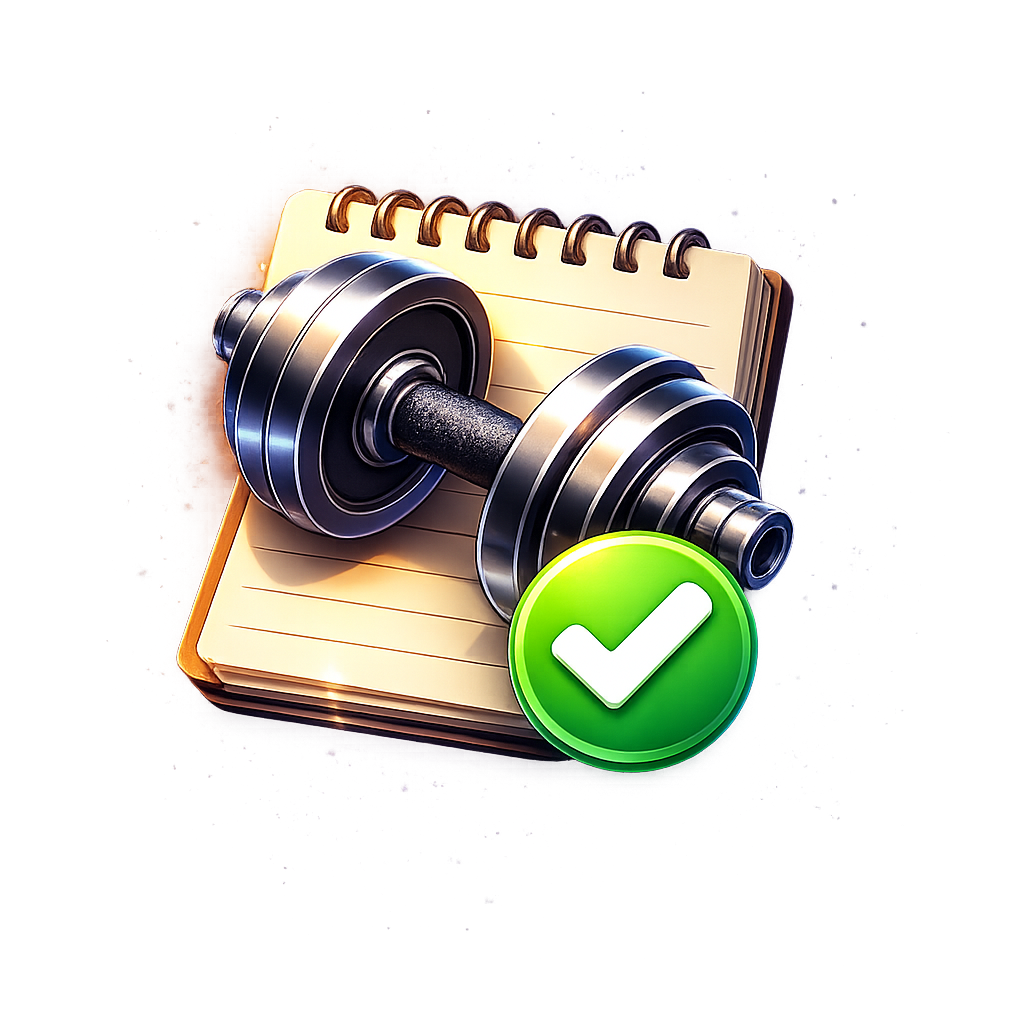
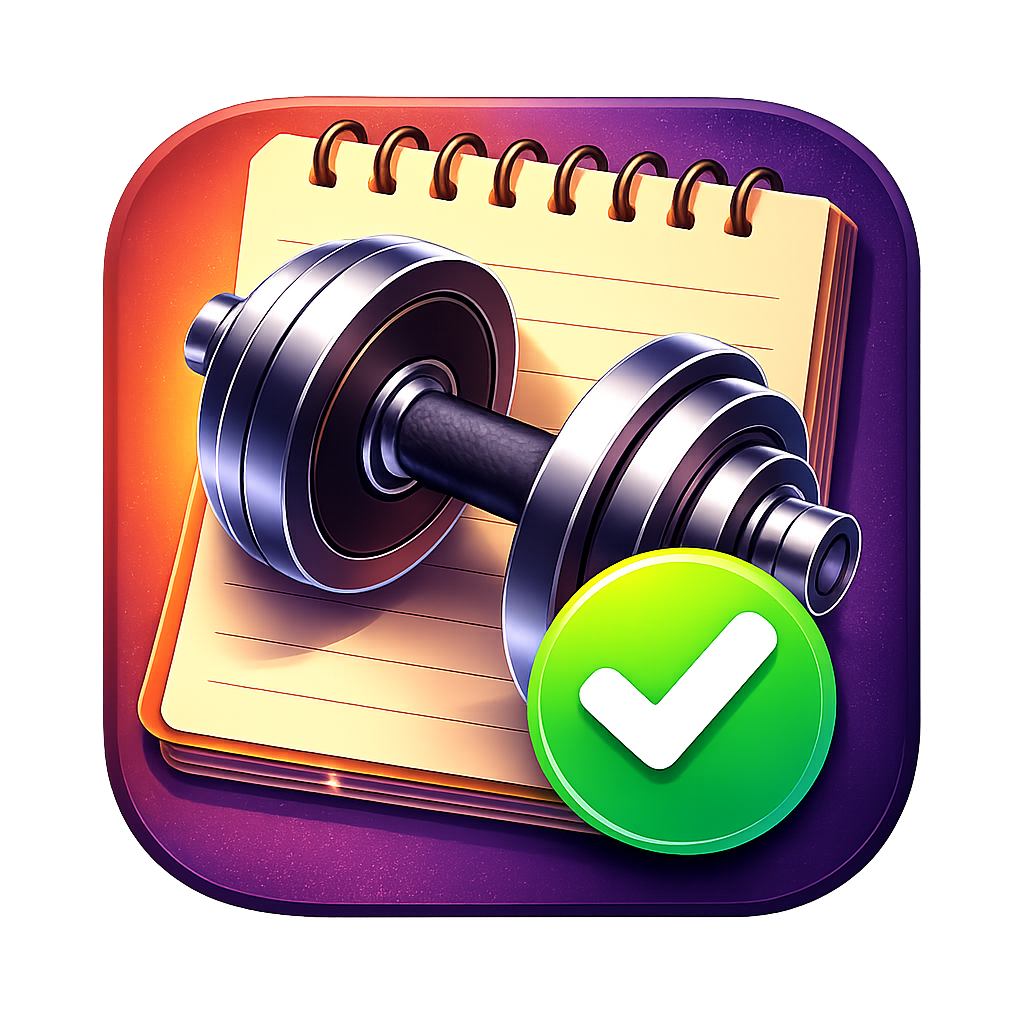
アイコン変更

diff --git a/src/index.css b/src/index.css
@@ -62,6 +62,8 @@ h1 {
   background-color: #0f172a;
   color: #eeeeee67;
   height: 32px;
+  font-size: 16px;
+  padding: 12px;
 }
 
 input[type="date"] {
@@ -77,8 +79,12 @@ input[type="date"] {
   background-color: #0f172a;
   color: #eeeeee67;
   height: 32px;
+  font-size: 16px;
 }
-
+.form option{
+  font-size: 16px;
+  padding: 12px;
+}
 .add-btn {
   background: linear-gradient(135deg, #22c55e, #16a34a);
   color: #ffffff;
@@ -382,9 +388,10 @@ table {
 
 .form-box input {
   width: 100%;
-  padding: 10px;
+  padding: 12px;
   border-radius: 8px;
   border: none;
+  font-size: 16px;
 }
 
 .form-box button {
